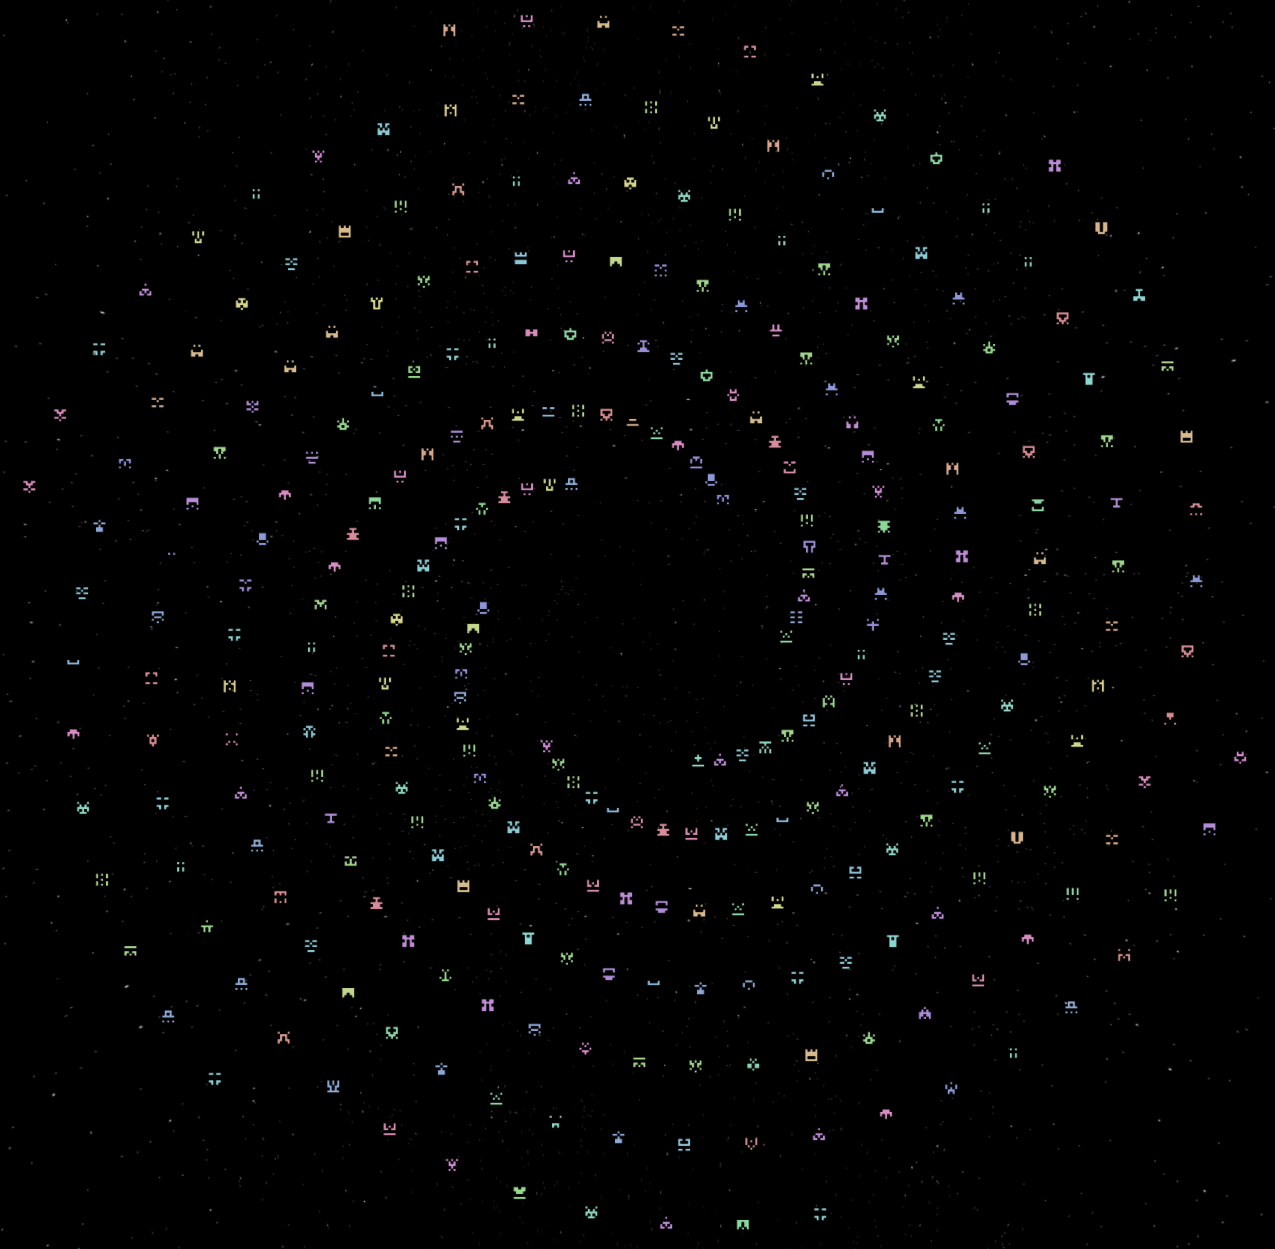
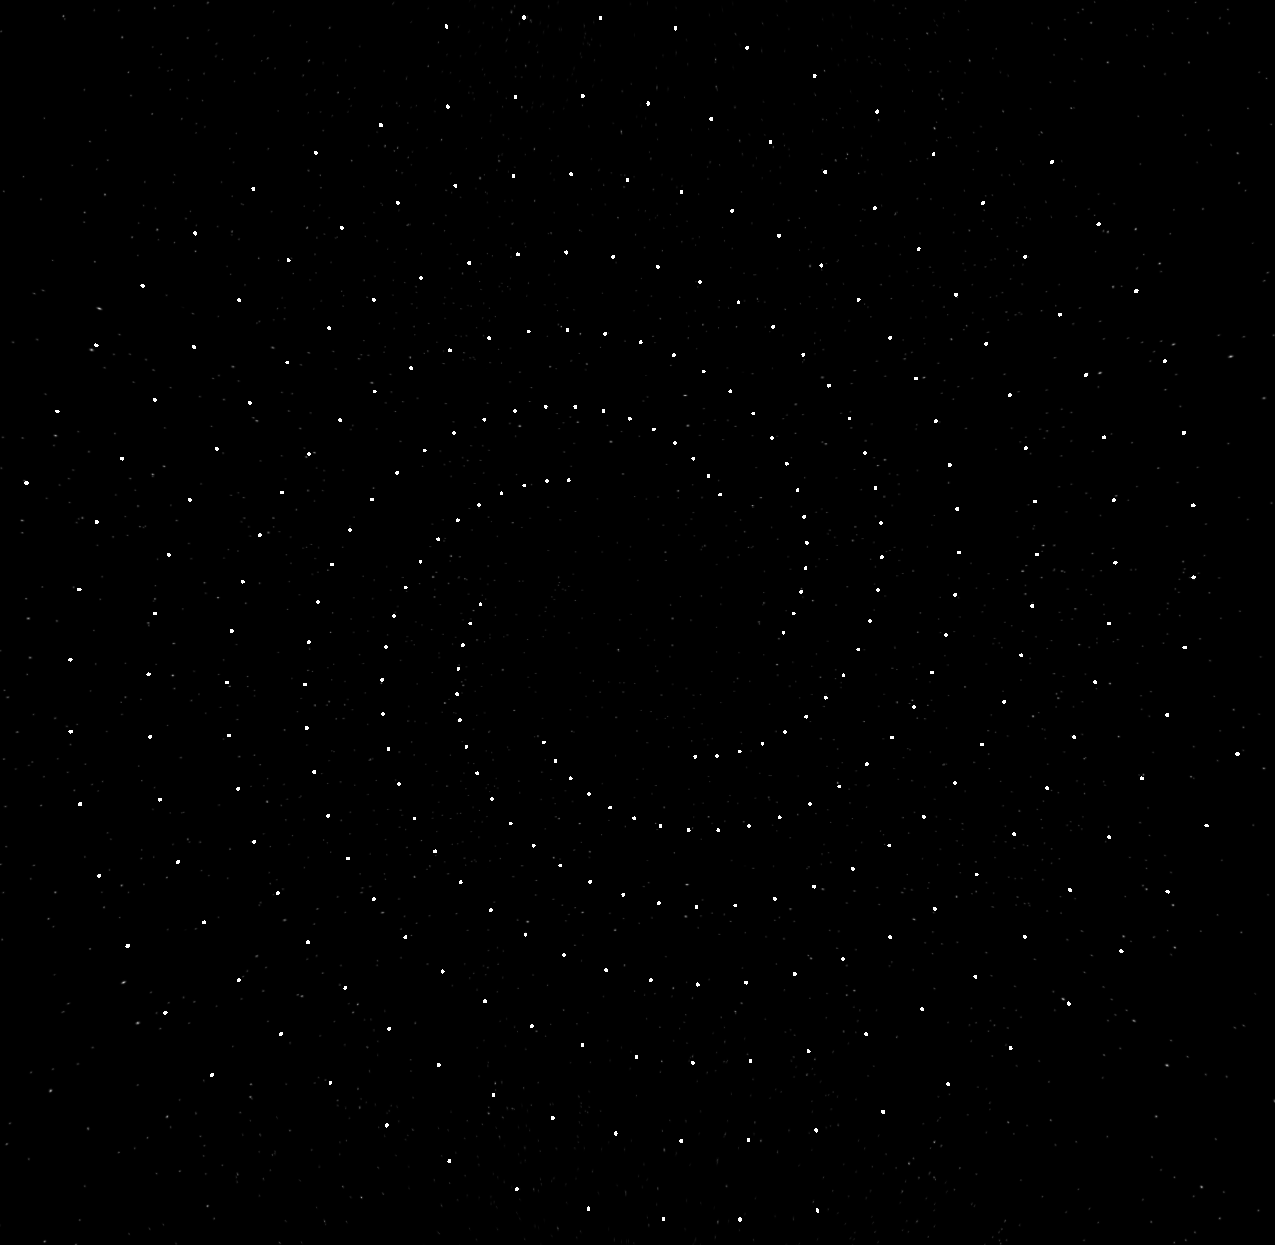
Add more images

diff --git a/final_report/slides.tex b/final_report/slides.tex
@@ -51,10 +51,30 @@ A computer game where the player does not directly interact with the game. Inste
 \item
 Based on a round system
 \item
-Players that lose stop playing
+Players who lose stop playing
 \item
 Multiple matches needed
 \end{itemize}
+\end{frame}
+\begin{frame}{The problem}
+\begin{figure}[H]
+\begin{center}
+\noindent\resizebox{\textwidth}{!}{
+\includegraphics{images/jutge_rounds.png}
+}
+\end{center}
+\caption{\texttt{Jutge.org} round system}
+\end{figure}
+\end{frame}
+\begin{frame}{The problem}
+\begin{figure}[H]
+\begin{center}
+\noindent\resizebox{!}{180pt}{
+\includegraphics{images/eda_bot.png}
+}
+\end{center}
+\caption{Twitter bot announcing eliminated players}
+\end{figure}
 \end{frame}
 \begin{frame}{The state of the art}
 \begin{itemize}
@@ -349,7 +369,7 @@ $$x = a \: cos(\theta)$$
 \end{frame}
 \begin{frame}{Rendering a galaxy}
 \begin{minipage}{.60\textwidth}
-\noindent\resizebox{!}{\textwidth}{
+\noindent\resizebox{\textwidth}{!}{
 \includegraphics{images/galaxy_50_players.png}
 }
 \end{minipage}
@@ -357,6 +377,21 @@ $$x = a \: cos(\theta)$$
 $$x(t) = at \: cos(t + \theta)$$
          $$y(t) = at \: sin(t + \theta)$$
 \end{minipage}
+\end{frame}
+\begin{frame}{Rendering a galaxy}
+\begin{figure}[H]
+\noindent\resizebox{\textwidth}{!}{
+\includegraphics{images/identicons.png}
+}
+\caption{Identicons}
+\end{figure}
+\end{frame}
+\begin{frame}{Rendering a galaxy}
+\begin{center}
+\noindent\resizebox{!}{180pt}{
+\includegraphics{images/galaxy_identicons.png}
+}
+\end{center}
 \end{frame}
 \section{Demonstration}
 \begin{frame}{Space Wars}
